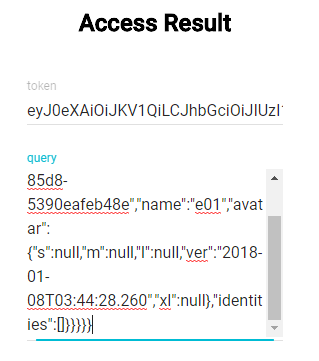
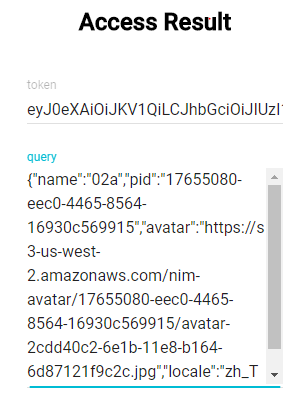
Add Oauth API in Sample code, and readme.

Changed region(s): [[0.0588, 0.3657, 0.9412, 0.9751], [0.0882, 0.1828, 0.9412, 0.3352], [0.2353, 0.0305, 0.7647, 0.0914]]

diff --git a/oAuth/app/utils/OAuthRequest.js b/oAuth/app/utils/OAuthRequest.js
@@ -170,6 +170,55 @@ class OAuthRequest {
     });
   }
 
+  getWithAccess(path, token) {
+    
+    return new Promise((resolve, reject) => {
+      fetch(this.apiUrl.concat(path), {
+        method: 'GET',
+        mode: 'cors',
+        headers: {
+          Authorization: 'Bearer '.concat(
+            token,
+          ),
+          'Access-Control-Allow-Origin': '*',
+          Origin: this.apiUrl,
+        },
+      })
+        .then(response => {
+          if (response.redirected) {
+            window.location.replace(response.url);
+          }
+          if (response.status === 401) {
+            reject({
+              ...response,
+              status: response.status,
+              type: 'Unauthorized',
+            });
+          } else if (response.status === 400) {
+            reject({
+              ...response,
+              status: response.status,
+              type: 'Denied',
+            });
+          } else if (response.status >= 402) {
+            reject({
+              ...response,
+              status: response.status,
+              type: 'Bad Request',
+            });
+          }
+          return response;
+        })
+        .then(result => {
+          resolve(result.json());
+        })
+        .catch(err => {
+          reject(err);
+        });
+    });
+  }
+
+
   get(path, params) {
     const esc = encodeURIComponent;
     const query = Object.keys(params)
@@ -230,8 +279,12 @@ class OAuthRequest {
       return this.postWithBasicAuth('/provider/token', params, appId, appKey);
     }
 
-    access(token) {
+    graphql_access(token) {
           return this.postWithAccess('/access', token);
+     }
+
+	access(token) {
+          return this.getWithAccess('/OAuthbot/v1/profile', token);
      }
 }
 

diff --git a/oAuth/app/sagas/access.js b/oAuth/app/sagas/access.js
@@ -2,13 +2,13 @@ import { fork, call, put } from 'redux-saga/effects';
 import { takeEvery } from 'redux-saga';
 import oAuth from 'utils/OAuthRequest';
 import { showError } from 'containers/App/actions';
-import { POST_ACCESS } from 'containers/Code/constants';
+import { ACCESS } from 'containers/Code/constants';
 import { getProfile } from 'containers/Code/actions';
 import {
   getAccToken
 } from 'utils/storageUtility';
 
-export function* postAccess(action) {
+export function* Access(action) {
   console.log("postAccess()");
   let resp;
   try {
@@ -28,7 +28,7 @@ export function* postAccess(action) {
 }
 
 export function* accessFlow() {
-  yield takeEvery(POST_ACCESS, postAccess);
+  yield takeEvery(ACCESS, Access);
 }
 
 export default function* access() {

diff --git a/oAuth/app/containers/Code/actions.js b/oAuth/app/containers/Code/actions.js
@@ -1,4 +1,4 @@
-import { GET_RESOURCE, RESP_RESOURCE, POST_TOKEN, POST_ACCESS } from './constants';
+import { GET_RESOURCE, RESP_RESOURCE, POST_TOKEN, ACCESS } from './constants';
 
 export function getResource(data) {
   return {
@@ -23,7 +23,7 @@ export function getToken(data) {
 
 export function getProfile(data) {
   return {
-    type: POST_ACCESS,
+    type: ACCESS,
     data,
   };
 }

diff --git a/oAuth/app/sagas/token.js b/oAuth/app/sagas/token.js
@@ -66,7 +66,7 @@ export function* postToken(action) {
       console.log("token error: Unauthorized");
       yield put(showError('token Unauthorized'));
     } else {
-      console.log("token error: ",error.type);
+      console.log("token error: ",error);
       yield put(showError(error.type));
     }
     return false;

diff --git a/oAuth/app/containers/Code/constants.js b/oAuth/app/containers/Code/constants.js
@@ -1,4 +1,4 @@
 export const GET_RESOURCE = 'app/Code/GET_RESOURCE';
 export const RESP_RESOURCE = 'app/Code/RESP_RESOURCE';
 export const POST_TOKEN = 'app/Code/POST_TOKEN';
-export const POST_ACCESS = 'app/Code/POST_ACCESS';
+export const ACCESS = 'app/Code/ACCESS';

diff --git a/oAuth/urls.conf.js b/oAuth/urls.conf.js
@@ -1,2 +1,2 @@
 /* Please place this url config in root directory: '/nim-console/' */
-export const apiELBUrl = 'http://jmc-pro.freepp.com:8080';
+export const apiELBUrl = 'http://jmc-pro.freepp.com:80';

diff --git a/readme.md b/readme.md
@@ -63,7 +63,6 @@ User, JoinMe Authentication Server, and 3rd Party Application.
 | Request  | /oauth/login?domain_id={{dmid}}&agent_id={{agid}}&client_id={{appid}}&redirect_uri=https://www.agent-bot.com/redirecturl&[scope](#identify-access-scopes)=Profile.Basic+Agent.Basic&state=A |
 | Response | Continue user login flow, and if login successfully , server will send "code" back to "reidrecturl" |
 
- 
 ---------------------------
 
 ### **Identify access scopes**
@@ -177,9 +176,39 @@ Party can call this API directly for JSSDK service.
 
 # 5. Using Access Token to call OAuth APIs  
 
-JoinMe OAuth API is TBD, and will update soon.
+JoinMe OAuth API released is below:
+
+## 5.1 **OAuth Profile Info** 
+
+Profile request example  
+
+```http
+curl -X GET \
+-H 'Authorization: Bearer {ENTER_ACCESS_TOKEN}' \
+http://api.joinme.com/OAuthbot/v1/profile 
+```
+
+Get user profile information by oauth.  
 
 
+
+| Method   | GET                                                          |
+| -------- | ------------------------------------------------------------ |
+| Header   | Authorization : Bearer {Access Token}                        |
+| Request  | /OAuthbot/v1/profile                                         |
+| Body     | None                                                         |
+| Response | {<br />"name": "Joinme Test",<br />"pid": "Uxxxxxxxxxxxxxx...",<br />"avatar": "https://abc.com/...",<br />"locale": "zh_TW"<br />} |
+
+
+
+Server returns the status code 200 and a JSON object with the following parameters.  
+
+| **Field** | **Type** | **Description**                                              |
+| --------- | -------- | ------------------------------------------------------------ |
+| name      | String   | Display Name                                                 |
+| pid       | String   | Profile ID                                                   |
+| avator    | String   | Image URL                                                    |
+| locale    | Locale   | A set of parameters that defines the user's language. Reference from [ISO639](http://www.oracle.com/technetwork/java/javase/javase7locales-334809.html). |
 
 
 
